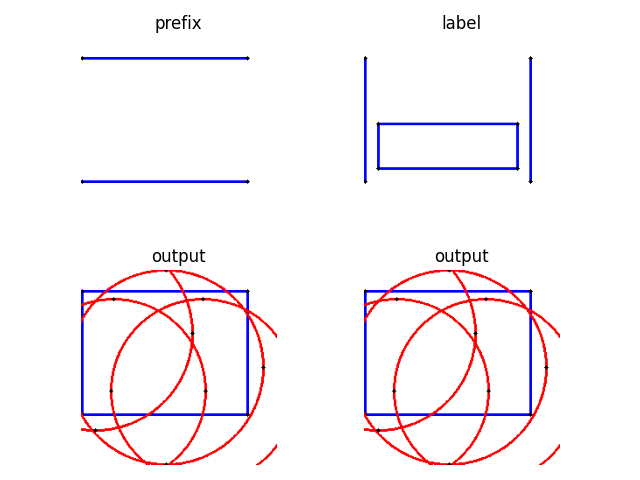
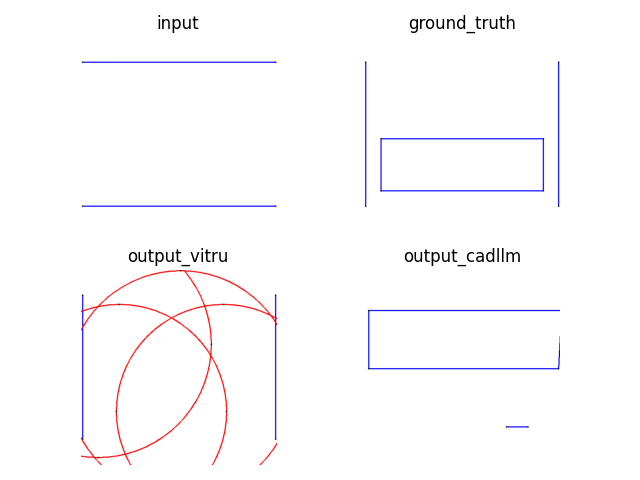
try focal loss on v2_tri

diff --git a/compare_vitru_out.py b/compare_vitru_out.py
@@ -6,8 +6,6 @@ import ast
 from geometry.visualization import visualize_sample_cv,visualize_batch
 
 
-
-
 def compute_metric(string_completed_entities, string_label_entities):
     
     top1_full, top1_ent = 0, 0
@@ -16,13 +14,13 @@ def compute_metric(string_completed_entities, string_label_entities):
     completed_entities = sorted(string_completed_entities)
     
     if len(completed_entities) ==0 or len(label_entities) ==0:
-            return 0,0,0
+            return 0,0,0,0
     
     if label_entities == completed_entities:
         top1_full=1
     
     if not completed_entities:
-        return top1_full, 0
+        return top1_full, 0, 0, 0
     
     eps =1e-6
     TP=0
@@ -94,6 +92,9 @@ def arc_midpoint(arc):
     
 def convert_circle(string_ent):
     le = len(string_ent)
+    result = any([item < 0 for ent in string_ent for item in ent])
+    if result:
+        embed()
     new_string = []
     for idx in range(le):
         if len(string_ent[idx])==3:
@@ -134,42 +135,39 @@ def visua_vitru(prefix, output_entities, labels):
         
         top1_full, top1_ent, _, _ = compute_metric(completed, label)
         
-        if top1_full==0 and top1_ent ==1 and len(label)>5:
-            _prefix = convert_circle(_prefix)
-            completed = convert_circle(completed)
-            label = convert_circle(label) 
+        # if top1_full==0 and top1_ent ==1 and len(label)>5:
+        _prefix = convert_circle(_prefix)
+        completed = convert_circle(completed)
+        label = convert_circle(label) 
             
-            embed()
-            cad_out = '1,13,1,32;1,13,64,13;1,32,63,32;46,51,53,51;63,32,64,13;'
-            cadllm = get_point_entities(cad_out)
+        embed()
+        cad_out = '1,13,1,32;1,13,64,13;1,32,63,32;46,51,53,51;63,32,64,13;'
+        cadllm = get_point_entities(cad_out)
+    
+        img1 = save_entities(_prefix, 'outputs/vitru_prefix.png')
+        img2 = save_entities(label, "outputs/vitru_label.png")
+        img3 = save_entities(completed, "outputs/vitru_completed.png")
+        img4 = save_entities(cadllm, "outputs/vitru_completed.png")
         
-            img1 = save_entities(_prefix, 'outputs/vitru_prefix.png')
-            img2 = save_entities(label, "outputs/vitru_label.png")
-            img3 = save_entities(completed, "outputs/vitru_completed.png")
-            img4 = save_entities(cadllm, "outputs/vitru_completed.png")
-            
-            fig, axarr = plt.subplots(2, 2)
+        fig, axarr = plt.subplots(2, 2)
 
-            axarr[0, 0].imshow(img1, cmap='gray')
-            axarr[0, 0].set_title('input')
-            axarr[0, 1].imshow(img2, cmap='gray')
-            axarr[0, 1].set_title('ground_truth')
-            axarr[1, 0].imshow(img3, cmap='gray')
-            axarr[1, 0].set_title('output_vitru')
-            axarr[1, 1].imshow(img4, cmap='gray')
-            axarr[1, 1].set_title('output_cadllm')
+        axarr[0, 0].imshow(img1, cmap='gray')
+        axarr[0, 0].set_title('input')
+        axarr[0, 1].imshow(img2, cmap='gray')
+        axarr[0, 1].set_title('ground_truth')
+        axarr[1, 0].imshow(img3, cmap='gray')
+        axarr[1, 0].set_title('output_vitru')
+        axarr[1, 1].imshow(img4, cmap='gray')
+        axarr[1, 1].set_title('output_cadllm')
 
-            # Removing axis ticks for better visualization
-            for ax in axarr.ravel():
-                ax.axis('off')
+        # Removing axis ticks for better visualization
+        for ax in axarr.ravel():
+            ax.axis('off')
 
-            plt.tight_layout()
-            plt.savefig(f'outputs/vitru_test_{idx}.png')
-            embed()
+        plt.tight_layout()
+        plt.savefig(f'outputs/vitru_test_{idx}.png')
+        embed()
         
-
-                
-
 from geometry.visualization import render_sketch_opencv              
 
 

diff --git a/models/byt5.py b/models/byt5.py
@@ -33,7 +33,7 @@ import transformers
 from transformers.optimization import Adafactor, AdafactorSchedule
 
 class ByT5Model(pl.LightningModule):
-    def __init__(self, args, vit_mae):
+    def __init__(self, args, vit_mae, num_train_steps):
         super().__init__()
         self.save_hyperparameters()
 
@@ -157,17 +157,22 @@ class ByT5Model(pl.LightningModule):
         
         
     def evaluation_process(self, batch, batch_idx, validate):
-        ''' compare some sample with vitruvion
+        
+        ''' compare some sample with vitruvion'''
+        
         device = batch['input_ids'].device
-        strings = '63,32,63,51;53,51,63,51;0,32,0,51;46,44,46,51;46,44,53,44;53,44,53,51;53,44,53,51;0,32,63,32;'
+        strings =  ['0,60,63,60;0,3,63,3;'] #'63,32,63,51;53,51,63,51;0,32,0,51;46,44,46,51;46,44,53,44;53,44,53,51;53,44,53,51;0,32,63,32;'
         token_in = self.tokenizer(strings, padding=True, truncation=True, max_length=96, return_tensors="pt")
         batch['input_ids'] = token_in.input_ids.to(device)
         batch['attention_mask'] =token_in.attention_mask.to(device)
-        point_input=get_point_entities(strings)
+        point_input=get_point_entities(strings[0])
         list_of_img = visualize_sample_cv(point_entities=[point_input], box_lim=64 + 3)
         _images = self.vitmae_preprocess(list_of_img, return_tensors="pt")
         batch['images'] = _images.pixel_values.to(device)
-        '''
+        
+        cols = ["attention_mask", "labels"]
+        model_batch = {col: val for col, val in batch.items() if col in cols}
+
         cols = ["attention_mask", "labels"]
         model_batch = {col: val for col, val in batch.items() if col in cols}
         
@@ -235,9 +240,9 @@ class ByT5Model(pl.LightningModule):
         self.log(f"{validate}_f1", f1, on_step=False, on_epoch=True, prog_bar=True, logger=True,
             batch_size=self.batch_size, sync_dist=True)
 
-        # # # Plot sketches
-        # if batch_idx < 5:
-        #     self.log_samples(batch=batch, batch_idx=batch_idx)
+        # # Plot sketches
+        if batch_idx < 5:
+            self.log_samples(batch=batch, batch_idx=batch_idx)
         
         return loss
 

diff --git a/models/vlt5_v2_tri.py b/models/vlt5_v2_tri.py
@@ -203,7 +203,7 @@ class ByT5Model(pl.LightningModule):
         #img_hidden_state = self.back_patch(img_hidden_state.permute(0,2,1))
         
         img_res = self.vis_model.decoder(img_hidden_state, ids_restore=oi.ids_restore)
-        img_loss = self.forward_loss(batch['output_images'], img_res.logits) #img_res.logits: #(bs, 196, v_dim)
+        img_loss = self.forward_focal_loss(batch['output_images'], img_res.logits) #img_res.logits: #(bs, 196, v_dim)
         
         '''image text contrastive loss'''
         # normalized features
@@ -394,12 +394,26 @@ class ByT5Model(pl.LightningModule):
             var = target.var(dim=-1, keepdim=True)
             target = (target - mean) / (var + 1.0e-6) ** 0.5
 
-        loss = (pred - target) ** 2
+        loss = (pred - target)
         loss = loss.mean(dim=-1)  # [N, L], mean loss per patch
 
         #loss = (loss * mask).sum() / mask.sum()  # mean loss on removed patches
         loss = loss.mean()
         return loss
+
+    def forward_focal_loss(self, pixel_values, pred):
+        gamma = 2
+        target = self.vis_model.patchify(pixel_values)
+        if self.vis_model.config.norm_pix_loss:
+            mean = target.mean(dim=-1, keepdim=True)
+            var = target.var(dim=-1, keepdim=True)
+            target = (target - mean) / (var + 1.0e-6) ** 0.5
+            
+        abs_error = torch.abs(pred - target)
+        normalized_error = abs_error / 64  # or use torch.sigmoid(abs_error)
+        focal_weight = (1 - normalized_error) ** gamma
+        focal_loss = focal_weight * abs_error
+        return focal_loss.mean()
     
     def log_samples(self, batch, batch_idx):
         label_curves = [get_curves(point_label) for point_label in batch["point_labels"]]

diff --git a/models/vlt5_v0.py b/models/vlt5_v0.py
@@ -18,7 +18,7 @@ sys.path.insert(0, '/home/ec2-user/SageMaker/efs/code/cad_llm')
 from metrics import calculate_accuracy, calculate_first_ent_accuracy, calculate_validity, calculate_f1
 from util import get_quantized_range
 from geometry.parse import get_curves, get_point_entities
-from geometry.visualization import visualize_batch
+from geometry.visualization import visualize_batch, visualize_sample_cv
 from pathlib import Path
 from peft import LoraConfig, get_peft_model, prepare_model_for_int8_training, TaskType
 from PIL import Image
@@ -207,8 +207,6 @@ class ByT5Model(pl.LightningModule):
         
         
     def evaluation_process(self, batch, batch_idx, validate):
-        cols = ["attention_mask", "labels"]
-        model_batch = {col: val for col, val in batch.items() if col in cols}
 
         
         # image_features = self.clip_model.encode_image(batch['images'])
